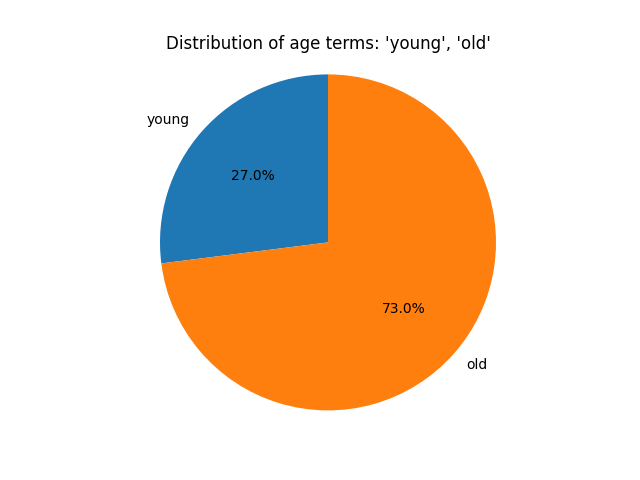
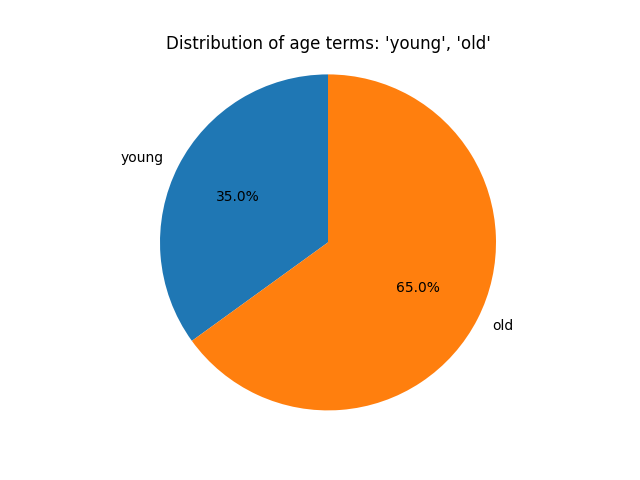
Scaling up.

diff --git a/counts.py b/counts.py
@@ -7,7 +7,7 @@ from sklearn.feature_extraction.text import CountVectorizer
 from datatrove.pipeline.readers import ParquetReader
 
 ## Load fineweb
-data_reader = ParquetReader("hf://datasets/HuggingFaceFW/fineweb/sample/10BT", progress=True, limit=1000)
+data_reader = ParquetReader("hf://datasets/HuggingFaceFW/fineweb/sample/10BT", progress=True, limit=100000)
 corpus = map(lambda doc: doc.text, data_reader())
 
 ## Compute frequencies
